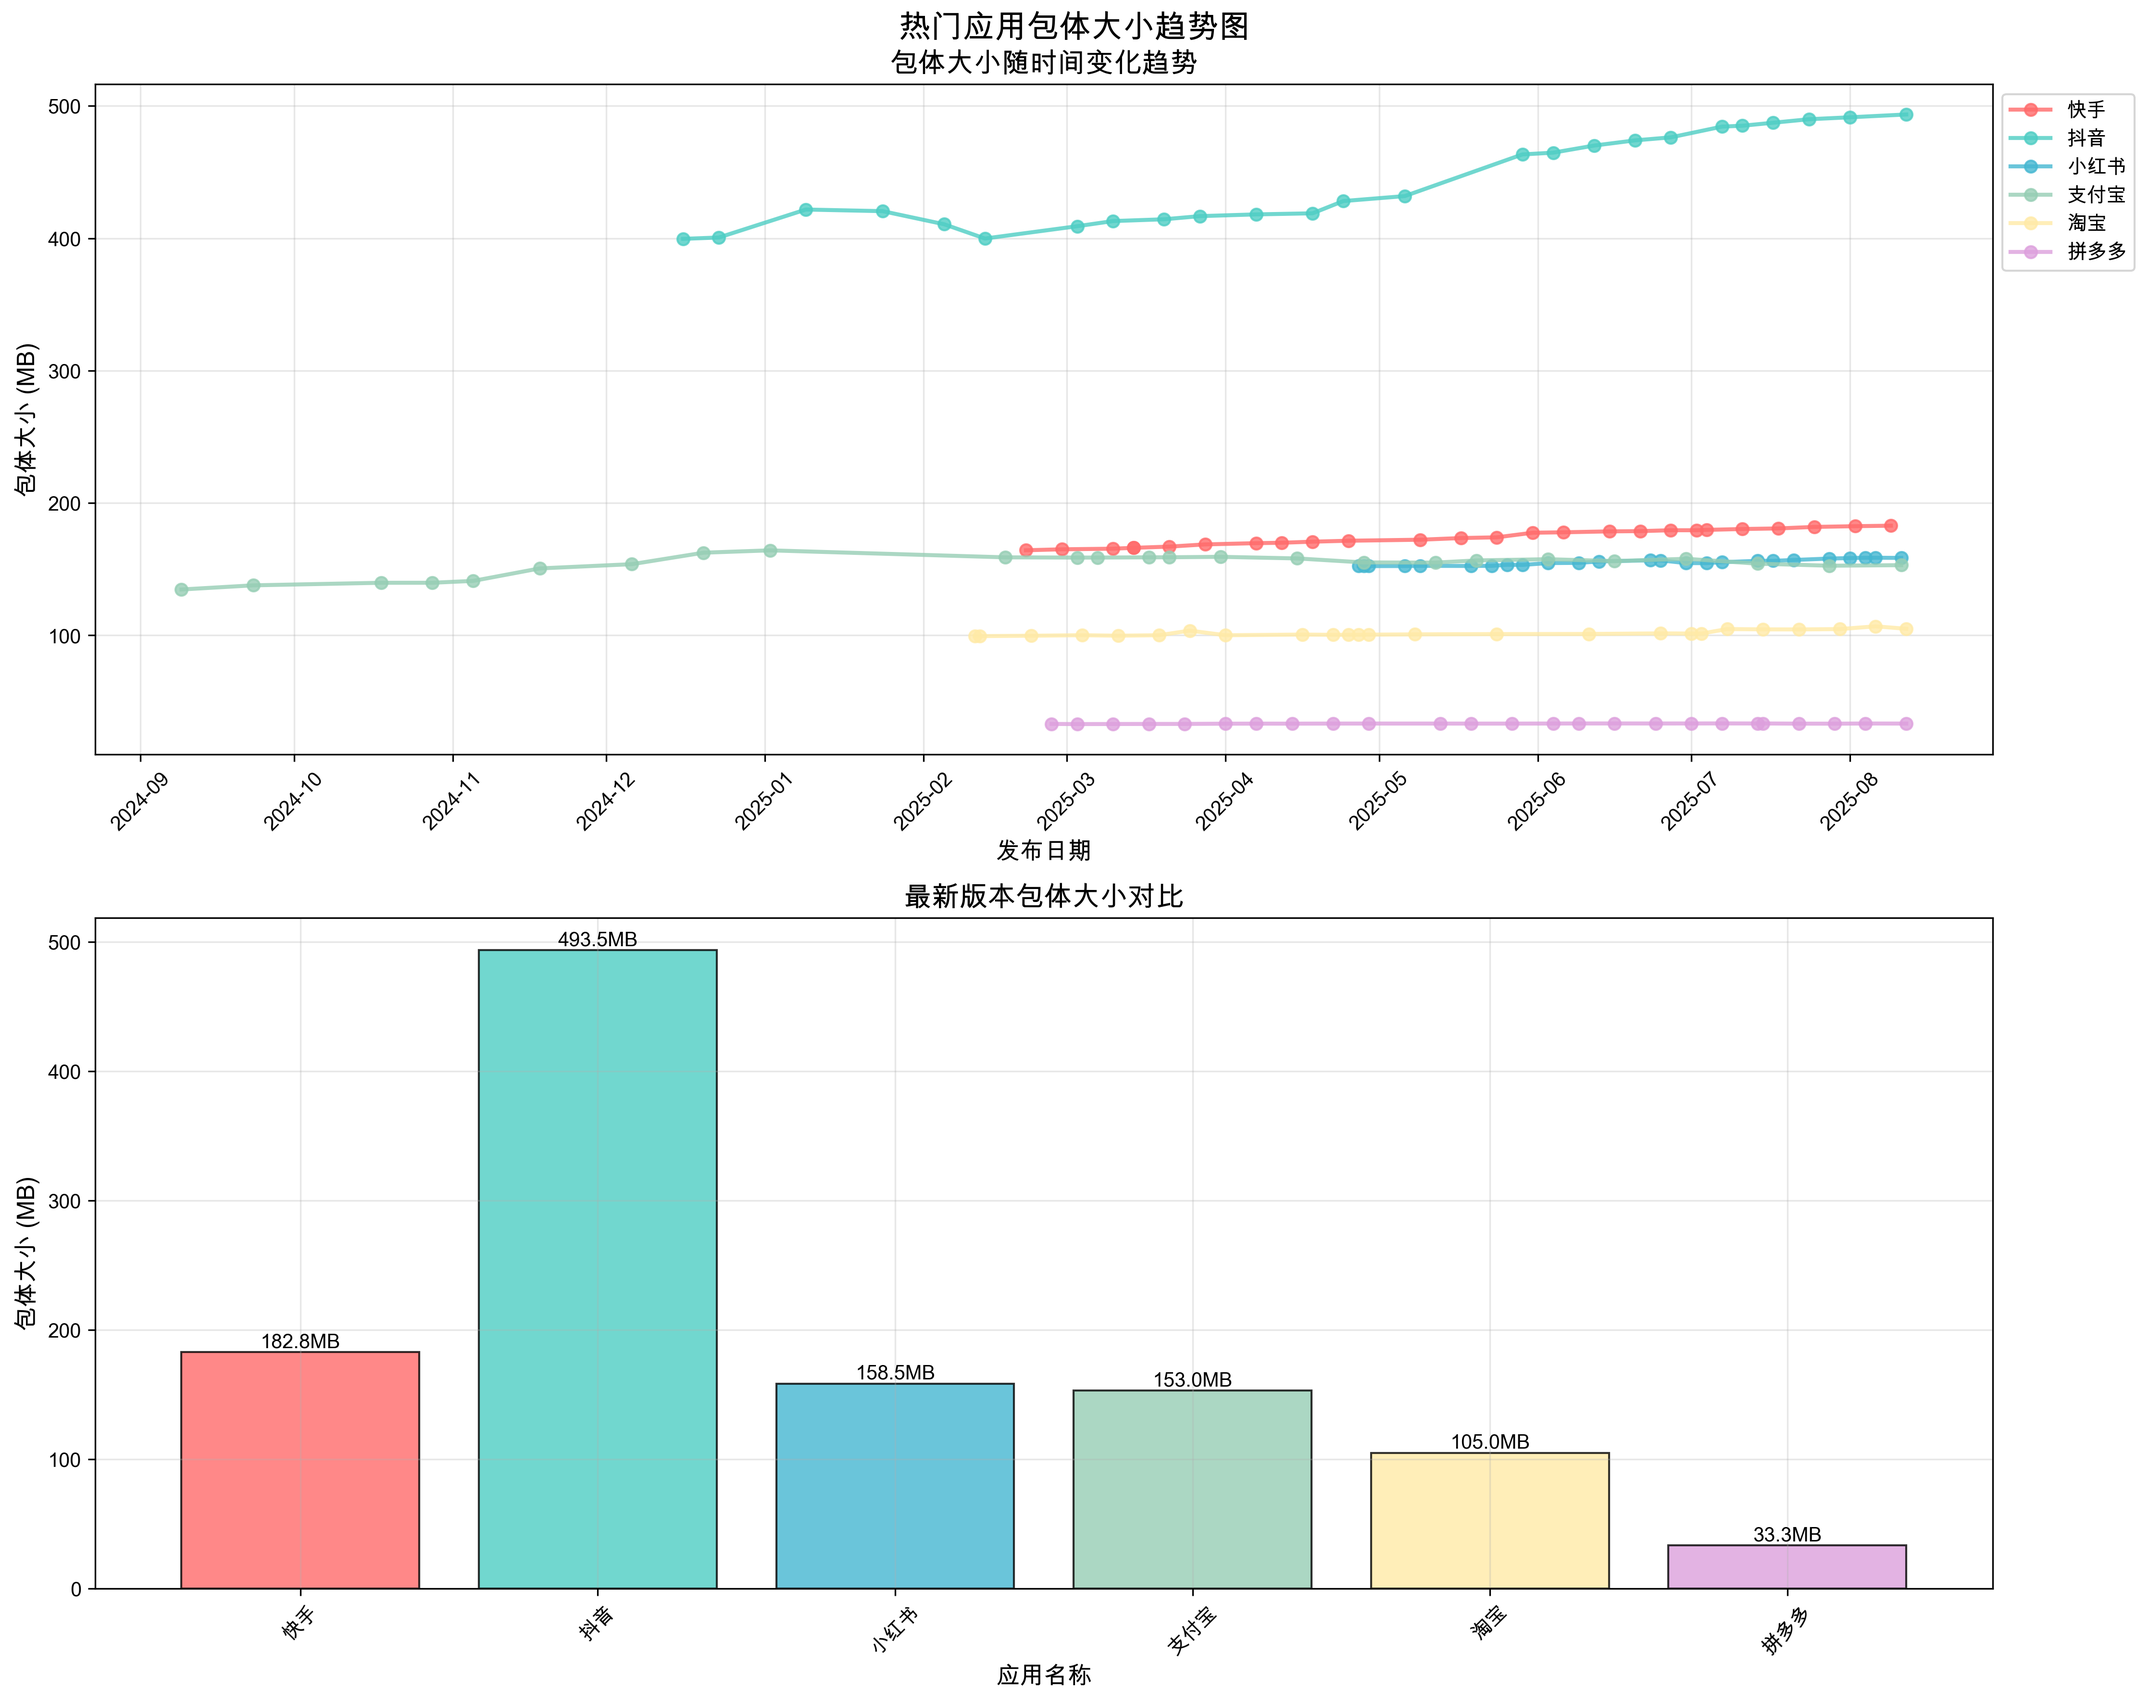
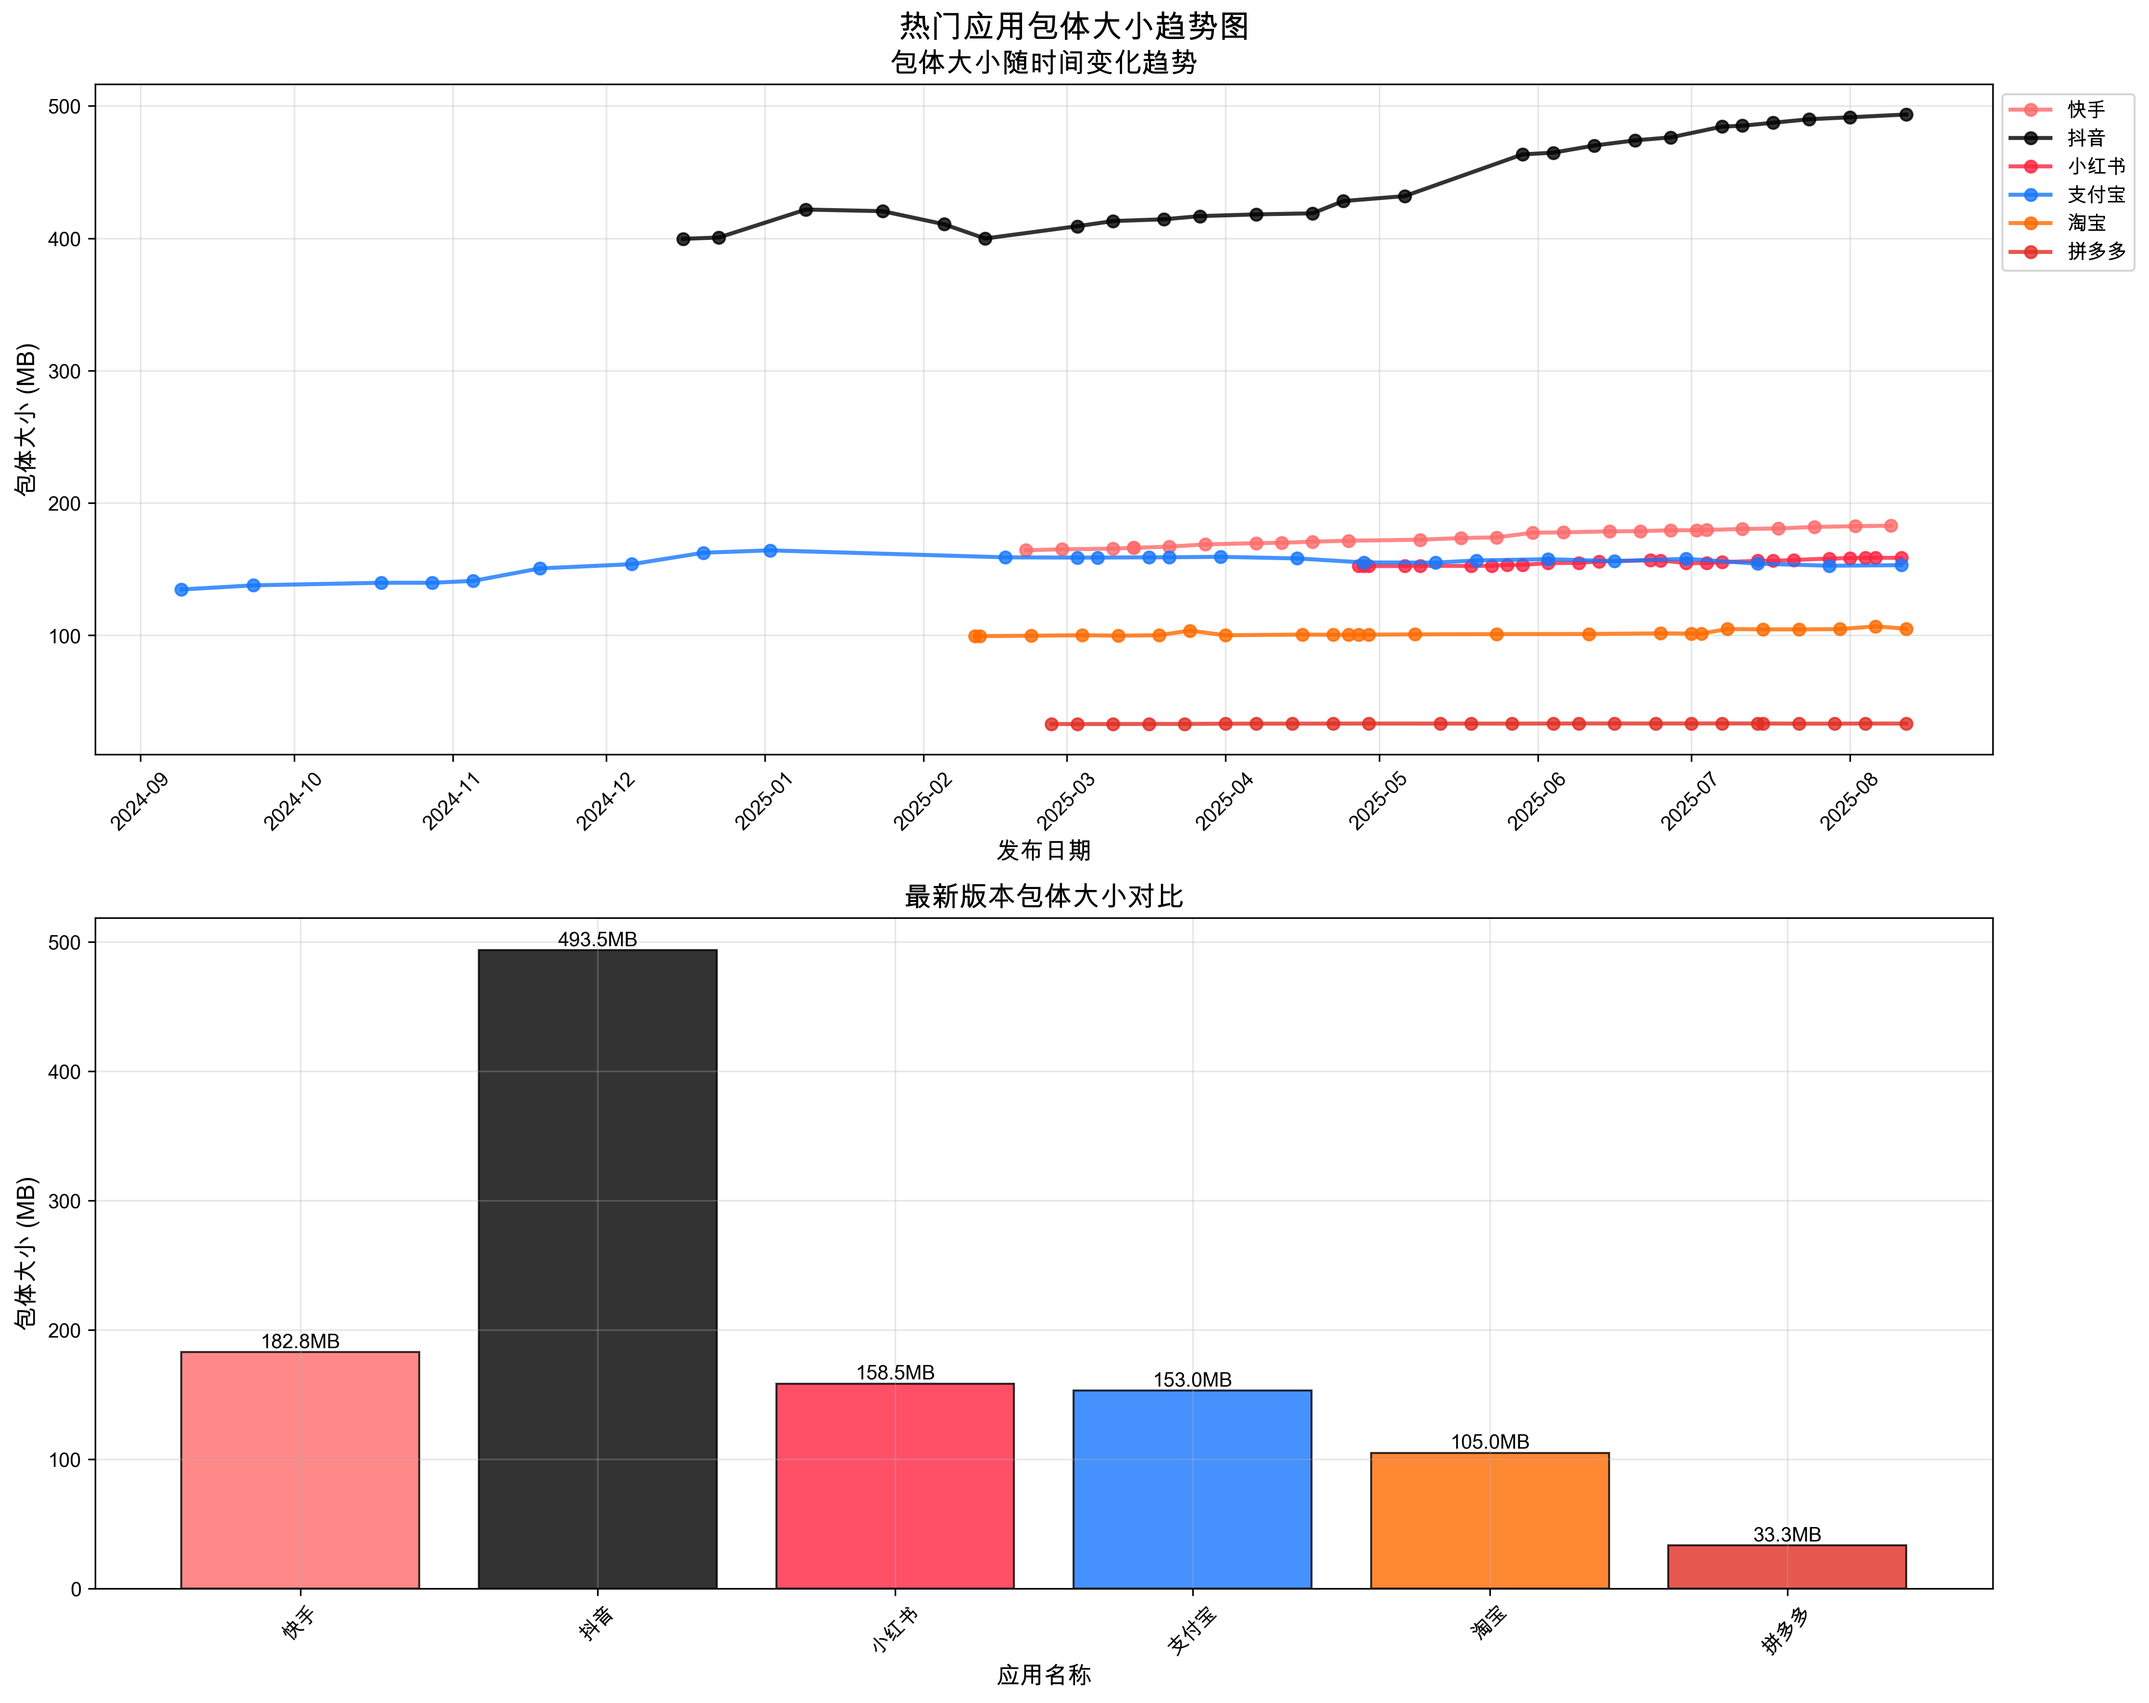
chore: 更新颜色

diff --git a/auto_fetch_popular_apps.py b/auto_fetch_popular_apps.py
@@ -17,6 +17,8 @@ import matplotlib.dates as mdates
 from datetime import datetime
 import numpy as np
 
+# 颜色分析功能已简化，直接使用默认颜色
+
 class PopularAppsFetcher:
     def __init__(self):
         # 热门应用ID映射
@@ -529,9 +531,8 @@ class PopularAppsFetcher:
             fig, (ax1, ax2) = plt.subplots(2, 1, figsize=(15, 12))
             fig.suptitle('热门应用包体大小趋势图', fontsize=16, fontweight='bold')
             
-            # 颜色映射
-            colors = ['#FF6B6B', '#4ECDC4', '#45B7D1', '#96CEB4', '#FFEAA7', '#DDA0DD']
-            app_colors = dict(zip(self.popular_apps.keys(), colors))
+            # 获取应用颜色
+            app_colors = self.get_app_colors()
             
             # 数据收集
             all_data = {}
@@ -631,6 +632,27 @@ class PopularAppsFetcher:
             print(f"❌ 绘制包体趋势图失败: {e}")
             import traceback
             traceback.print_exc()
+    
+    def get_app_colors(self):
+        """获取应用的颜色配置"""
+        return self.get_default_colors()
+    
+    def get_default_color(self, app_name):
+        """获取应用的默认颜色"""
+        default_colors = {
+            "快手": "#FF6B6B",      # 快手红
+            "抖音": "#000000",      # 抖音黑
+            "微信": "#07C160",      # 微信绿
+            "小红书": "#FF2442",    # 小红书红
+            "支付宝": "#1677FF",    # 支付宝蓝
+            "淘宝": "#FF6A00",      # 淘宝橙
+            "拼多多": "#E02E24"     # 拼多多红
+        }
+        return default_colors.get(app_name, "#666666")
+    
+    def get_default_colors(self):
+        """获取所有应用的默认颜色"""
+        return {app_name: self.get_default_color(app_name) for app_name in self.popular_apps.keys()}
     
     def fetch_all_popular_apps(self, version_count: int = 10):
         """获取所有热门应用的最新版本信息"""

diff --git a/README.md b/README.md
@@ -92,6 +92,7 @@ python3 auto_fetch_popular_apps.py --plot-only
 - **双图表设计**: 上图显示包体大小随时间变化趋势，下图显示最新版本大小对比
 - **数据转换**: 自动将 `download_size` (字节) 转换为 MB 单位
 - **时间轴**: 横坐标为发布日期，支持时间排序和趋势分析
+- **品牌色彩**: 每个应用使用其知名品牌色彩，确保视觉识别度
 - **可视化**: 每个应用用不同颜色表示，包含数据点标记
 - **高质量输出**: 300 DPI 高分辨率PNG格式，适合报告和展示
 - **自动生成**: 每次运行汇总后自动生成，也可单独使用 `--plot-only` 参数
@@ -376,6 +377,7 @@ appstore_parse/
 ├── install_dependencies.sh        # 依赖安装脚本（macOS/Linux）
 ├── install_dependencies.bat       # 依赖安装脚本（Windows）
 ├── INSTALL.md                     # 详细安装指南
+├── app_colors_config.json         # 应用品牌色彩配置
 ├── version_input/                  # 历史数据文件目录
 │   ├── ios_appstore_history_440948110.json
 │   └── ios_appstore_history_1142110895.json
